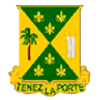
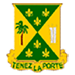
updated the units crest bar

diff --git a/src/pages/Example2.html b/src/pages/Example2.html
@@ -1,10 +1,20 @@
-<div class="off-canvas position-right" id="offCanvas" data-off-canvas>
+<div class="off-canvas position-top" id="offCanvas" data-off-canvas>
   <ul class="menu vertical">
-    <li><a href="#">Units</a></li>
-    <li><a href="#">Organizations</a></li>
-    <li><a href="#">Newcomers</a></li>
-    <li><a href="#">Calendar and More</a></li>
-    <li><a href="#">Fort Carson Services</a></li>
+    <li>
+      <a href="#">Units</a>
+    </li>
+    <li>
+      <a href="#">Organizations</a>
+    </li>
+    <li>
+      <a href="#">Newcomers</a>
+    </li>
+    <li>
+      <a href="#">Calendar and More</a>
+    </li>
+    <li>
+      <a href="#">Fort Carson Services</a>
+    </li>
   </ul>
   <button class="close-button" aria-label="Close menu" type="button" data-close>
     <span aria-hidden="true">&times;</span>
@@ -12,7 +22,7 @@
 </div>
 
 
-<div class="hero-full-screen show-for-medium">
+<div class="hero-full-screen">
   <div class="top-content-section">
     <div class="top-bar">
       <div class="top-bar-left">
@@ -34,24 +44,25 @@
       </div>
     </div>
   </div>
-  <!-- <div class="grid-container"> -->
-  <div class="grid-x">
-    <div class="cell large-7">
-      <div class="middle-content-section">
-        <h1 style="text-align:left;">Welcome to Fort Carson</h1>
-        <h3 style="text-align:left;">The Best Hometown in the Army!</h3>
-        <div class="cell callout reporting" style="width:500px;">
-          <div class="hide" data-feed-template>
-            <div data-feed-content></div>
+  <div id="hero-content-wrapper">
+    <div class="grid-x">
+      <div class="cell large-7">
+        <div class="middle-content-section">
+          <h1 style="text-align:left;">Welcome to Fort Carson</h1>
+          <h3 style="text-align:left;">The Best Hometown in the Army!</h3>
+          <div class="cell callout reporting" style="width:500px;">
+            <div class="hide" data-feed-template>
+              <div data-feed-content></div>
+            </div>
           </div>
         </div>
       </div>
+      <div class="cell large-5">
+        <iframe width="450" height="300" src="https://www.youtube.com/embed/BxvaGXlb-xo" frameborder="0" gesture="media" allow="encrypted-media"
+          allowfullscreen></iframe>
+      </div>
     </div>
-    <div class="cell large-5">
-      <iframe width="450" height="300" src="https://www.youtube.com/embed/BxvaGXlb-xo" frameborder="0" gesture="media" allow="encrypted-media"
-        allowfullscreen></iframe>
-    </div>
-  </div>
+  </div>>
   <!-- </div> -->
   <div class="bottom-content-section" data-magellan data-threshold="0">
 
@@ -76,30 +87,73 @@
     </li>
   </ul>
 </nav>
-<div class="grid-x units">
-  <div class="cell">
-    <a href="#"><img src="{{root}}assets/img/crests/1-4Crest.png"/></a>
-    <a href="#"><img src="{{root}}assets/img/crests/2IBCT.png"/></a>
-    <a href="#"><img src="{{root}}assets/img/crests/4ID-3BCT.png"/></a>
-    <a href="#"><img src="{{root}}assets/img/crests/4ID-4CAB-Crest.png"/></a>
-    <a href="#"><img src="{{root}}assets/img/crests/4SB.png"/></a>
-    <a href="#"><img src="{{root}}assets/img/crests/DIVARTY.png"/></a>
-    <a href="#"><img src="{{root}}assets/img/crests/HHBN.png"/></a>
-    <a href="#"><img src="{{root}}assets/img/crests/FortCarsonMEDDAC.png"/></a>
-    <a href="#"><img src="{{root}}assets/img/crests/dencom_logo.jpg"/></a>
-    <a href="#"><img src="{{root}}assets/img/crests/10thSFG.png"/></a>
-    <a href="#"><img src="{{root}}assets/img/crests/4thENGBTN_Crest.png"/></a>
-    <a href="#"><img src="{{root}}assets/img/crests/759thMPBTN_Crest.png"/></a>
-    <a href="#"><img src="{{root}}assets/img/crests/71eod.png"/></a>
-    <a href="#"><img src="{{root}}assets/img/crests/13thASOS.jpg"/></a>
-    <a href="#"><img src="{{root}}assets/img/crests/10thCSH.png"/></a>
-
+<div class="grid-x grid-padding-x units">
+  <div class="cell shrink">
+    <a href="https://www.facebook.com/RaiderBrigade/">
+      <img src="{{root}}assets/img/crests/1-4Crest.png" />
+    </a></div>
+    <div class="cell shrink">
+    <a href="https://www.facebook.com/2ndibct4id/">
+      <img src="{{root}}assets/img/crests/2IBCT.png" />
+    </a></div>
+    <div class="cell shrink">
+    <a href="#">
+      <img src="{{root}}assets/img/crests/4ID-3BCT.png" />
+    </a></div>
+    <div class="cell shrink">
+    <a href="#">
+      <img src="{{root}}assets/img/crests/4ID-4CAB-Crest.png" />
+    </a></div>
+    <div class="cell shrink">
+    <a href="#">
+      <img src="{{root}}assets/img/crests/4SB.png" />
+    </a></div>
+    <div class="cell shrink">
+    <a href="#">
+      <img src="{{root}}assets/img/crests/DIVARTY.png" />
+    </a></div>
+    <div class="cell shrink">
+    <a href="#">
+      <img src="{{root}}assets/img/crests/HHBN.png" />
+    </a></div>
+    <div class="cell shrink">
+    <a href="#">
+      <img src="{{root}}assets/img/crests/FortCarsonMEDDAC.png" />
+    </a></div>
+    <div class="cell shrink">
+    <a href="#">
+      <img src="{{root}}assets/img/crests/dencom_logo.jpg" />
+    </a></div>
+    <div class="cell shrink">
+    <a href="#">
+      <img src="{{root}}assets/img/crests/10thSFG.png" />
+    </a></div>
+    <div class="cell shrink">
+    <a href="#">
+      <img src="{{root}}assets/img/crests/4thENGBTN_Crest.png" />
+    </a></div>
+    <div class="cell shrink">
+    <a href="#">
+      <img src="{{root}}assets/img/crests/759thMPBTN_Crest.png" />
+    </a></div>
+    <div class="cell shrink">
+    <a href="#">
+      <img src="{{root}}assets/img/crests/71eod.png" />
+    </a></div>
+    <div class="cell shrink">
+    <a href="#">
+      <img src="{{root}}assets/img/crests/13thASOS.jpg" />
+    </a></div>
+    <div class="cell shrink">
+    <a href="#">
+      <img src="{{root}}assets/img/crests/10thCSH.png" />
+    </a></div>
   </div>
 </div>
 <div id="main-content-section" data-magellan-target="main-content-section">
   <div class="marketing-site-content-section">
     <div class="marketing-site-content-section-block">
-      <h3>Events</h3>
+      <h3><a href="http://www.fortcarsonmountaineer.com/category/news-you-need-to-know-now/">Events</a></h3>
       <div class="card-section news">
         <div class="hide" data-feed-template>
           <h4 data-feed-title></h4>
@@ -108,13 +162,7 @@
       </div>
     </div>
     <div class="marketing-site-content-section-img">
-      <!-- <div class="grid-container">
-        <div class="cell callout reporting">
-          <div class="hide" data-feed-template>
-            <div data-feed-content></div>
-          </div>
-        </div>
-      </div> -->
+      <img src="http://soldiers.dodlive.mil/files/2012/06/CarsonWildfireAssist-1.jpg" alt="" />
     </div>
 
     <div class="marketing-site-content-section-img">
@@ -132,11 +180,15 @@
         </div>
       </div>
     </div>
-    <div class="marketing-site-content-section-block small-order-2 medium-order-1">
+    <div class="marketing-site-content-section-block small-order-2 medium-order-1 cb">
       <h3 class="marketing-site-content-section-block-header">Resources</h3>
       <p class="marketing-site-content-section-block-subheader">Fort Carson has numerous resources for soldiers and their families to include financial assistance, employment readiness
         and wellness. All the things needed to assist our soldiers and families with being R.E.A.D.Y</p>
-      <a href="#" class="round button small">learn more</a>
+      <div class="large button-group">
+        <a class="button">Newcomers</a>
+        <a class="button">Soldiers and Families</a>
+        <a class="button">Civilians</a>
+      </div>
     </div>
     <div class="marketing-site-content-section-img small-order-1 medium-order-2">
       <img src="{{root}}assets/img/fortcarsonresources.png" alt="" />

diff --git a/src/assets/scss/_hero.scss b/src/assets/scss/_hero.scss
@@ -13,13 +13,21 @@ $hero-full-screen-text-color: $white;
 // }
 
 .hero-full-screen {
-  height: 60vh;
+  // height: 60vh;
   display: flex;
   flex-direction: column;
   align-items: center;
   justify-content: space-between;
   background: $hero-full-screen-bg;
   background-size: $hero-full-screen-bg-size;
+
+  #hero-content-wrapper{
+    padding:5rem;
+    @include breakpoint(small only){
+      padding:1rem;
+    }
+  }
+
   // mix-blend-mode: multiply;
   // filter: grayscale(100%);
 
@@ -32,6 +40,7 @@ $hero-full-screen-text-color: $white;
       .reporting{
         width:600px;
       }
+
     // mix-blend-mode: multiply;
     // filter: grayscale(100%);
   }

diff --git a/src/assets/scss/_settings.scss b/src/assets/scss/_settings.scss
@@ -495,7 +495,7 @@ $meter-fill-bad: $alert-color;
 // --------------
 
 $offcanvas-sizes: (
-  small: 250px,
+  small: 100%,
 );
 $offcanvas-vertical-sizes: (
   small: 250px,

diff --git a/src/assets/scss/_unitsbar.scss b/src/assets/scss/_unitsbar.scss
@@ -1,7 +1,7 @@
 .units{
 background-color: #fff;
     img{
-        padding:4px 4px;
+        padding:3px 3px;
     }
 
 }
